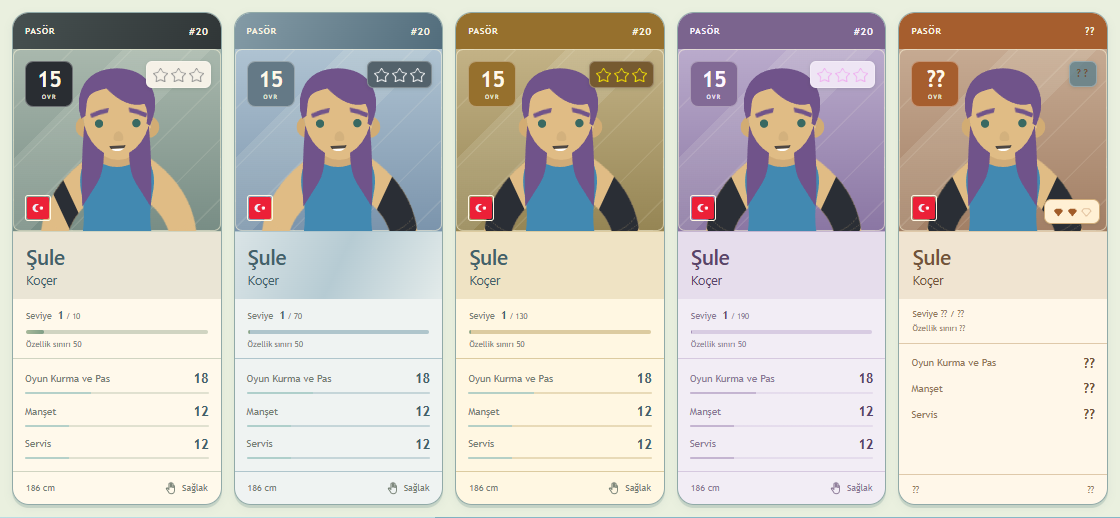
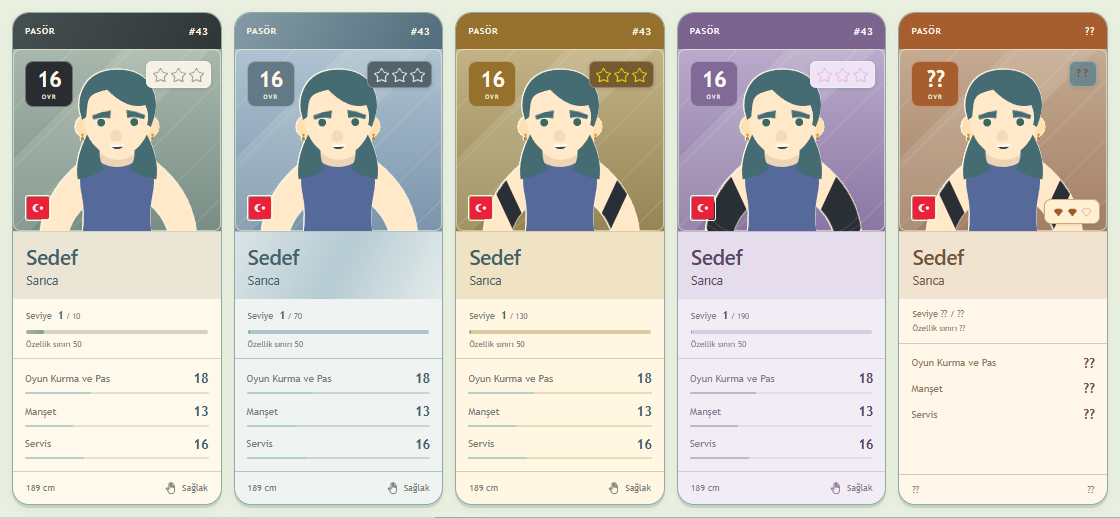
Add fine warm outline to card portrait silhouettes

diff --git a/index-beta.html b/index-beta.html
@@ -1,5 +1,5 @@
 <!doctype html>
-<html lang="tr" class="desktop-beta"><head><script src="desktop-beta-storage.js?v=df309e5c0cea"></script><script src="cheat-defaults.js?v=3f3b429b351f"></script><script src="flow-preview-environment.js?v=bd84173813bd"></script><meta charset="utf-8"><meta name="viewport" content="width=device-width,initial-scale=1,viewport-fit=cover"><meta name="theme-color" content="#72c8e5"><link rel="manifest" href="manifest.webmanifest"><link rel="apple-touch-icon" href="assets/app/apple-touch-icon.png"><meta name="apple-mobile-web-app-capable" content="yes"><meta name="apple-mobile-web-app-title" content="Idle Spiker"><meta name="apple-mobile-web-app-status-bar-style" content="default"><link rel="stylesheet" href="app-display.css?v=07395180a70d"><script src="app-display.js?v=6eab26d2992b" defer></script><title>Idle Spiker · Masaüstü Beta</title><link rel="stylesheet" href="menu.css?v=c016fb44e844"><link rel="stylesheet" href="menu-game.css?v=7f40c8954076"><link rel="stylesheet" href="team.css?v=bcffe6b92c1a"><link rel="stylesheet" href="league-season.css?v=c5e4b44d88a2"><style>#bootScreen{position:fixed;inset:0;max-width:480px;margin-inline:auto;z-index:10000;display:grid;place-content:center;justify-items:center;gap:8px;background:#fff3d7;color:#547c83;font-family:system-ui,sans-serif}#bootScreen strong{order:0;font-size:30px;letter-spacing:2px}#bootScreen strong span{color:#bb995b}#bootScreen p{order:1;font-size:12px;margin:0;color:#819383}#bootPepper{transform:translateZ(0);backface-visibility:hidden;contain:paint;object-fit:contain;order:2;margin-top:12px;visibility:visible;width:260px;height:212px;border:0;background:transparent;pointer-events:none}#bootScreen img{order:-1;margin-bottom:10px;width:48px;height:48px;animation:boot-bounce 1.2s ease-in-out infinite}@keyframes boot-bounce{50%{transform:translateY(-12px) rotate(18deg)}}@media(prefers-reduced-motion:reduce){#bootScreen img{animation:none}}</style><link rel="stylesheet" href="club-journey.css?v=a8162af5edc1"><link rel="stylesheet" href="bal-stage.css?v=03e79f9db703"><script src="season-clock.js?v=c90a74233800"></script><script src="bal-recovery.js?v=59d7a7b23c62"></script><script src="weekly-season-migration.js?v=c91052e58aec"></script><script src="number-ui.js?v=a24b5930e991"></script><link rel="stylesheet" href="theme.css?v=3c0c28bd21fb"><script src="theme.js?v=3046f3da7b5c"></script><link rel="stylesheet" href="achievements.css?v=2a8661c0d2be"><link rel="stylesheet" href="division-three.css?v=ef35af114b54"><link rel="stylesheet" href="social-screen.css?v=0bf69406736d"><link rel="stylesheet" href="league-players.css?v=86e88a43a3b5"><link rel="stylesheet" href="language.css?v=b027c2a552b8"><script src="language-data.js?v=3d3af7f60753"></script><script src="language.js?v=6352cc5dd035"></script><link rel="stylesheet" href="player-skills.css?v=da608137e96c"><link rel="stylesheet" href="styles/ui/player-club-card.css?v=a569e8104e01"><link rel="stylesheet" href="styles/ui/transfer-center.css?v=80c355595696"><script src="scripts/ui/dialog-navigation.js?v=0988251be4a1" defer></script><link rel="stylesheet" href="social-journey.css?v=381c58c2dc22"><link rel="stylesheet" href="next-match-card.css?v=d739901623ff"><link rel="stylesheet" href="social-follower-counter.css?v=038892551d63"><link rel="stylesheet" href="player-profile.css?v=89c574b694fe"><link rel="stylesheet" href="ui-icons.css?v=b5ce6adfd485"><link rel="stylesheet" href="flow-effects.css?v=f82bf838ab8c"><link rel="stylesheet" href="board-doodles.css?v=85c5f17bdbe1"><link rel="stylesheet" href="board-presentation.css?v=3ae360fc348f"><link rel="stylesheet" href="progression-visuals.css?v=abd1b1d35d38"><link rel="stylesheet" href="flow-lanes.css?v=d6d148cc7fd3"><link rel="stylesheet" href="flow-media-theme.css?v=a959430cbe25"><link rel="stylesheet" href="ui-components.css?v=7b2e2900e58c"><link rel="stylesheet" href="academy.css?v=1f7eb14eaf73"><link rel="stylesheet" href="academy-career.css?v=c24b7b8e9637"><link rel="stylesheet" href="legendary-unlock-preview.css?v=247b90f08604"><script src="point-music-rules.js?v=8ce930b25ffd"></script><link rel="stylesheet" href="desktop-beta.css?v=43345844dd65"></head>
+<html lang="tr" class="desktop-beta"><head><script src="desktop-beta-storage.js?v=df309e5c0cea"></script><script src="cheat-defaults.js?v=3f3b429b351f"></script><script src="flow-preview-environment.js?v=bd84173813bd"></script><meta charset="utf-8"><meta name="viewport" content="width=device-width,initial-scale=1,viewport-fit=cover"><meta name="theme-color" content="#72c8e5"><link rel="manifest" href="manifest.webmanifest"><link rel="apple-touch-icon" href="assets/app/apple-touch-icon.png"><meta name="apple-mobile-web-app-capable" content="yes"><meta name="apple-mobile-web-app-title" content="Idle Spiker"><meta name="apple-mobile-web-app-status-bar-style" content="default"><link rel="stylesheet" href="app-display.css?v=07395180a70d"><script src="app-display.js?v=6eab26d2992b" defer></script><title>Idle Spiker · Masaüstü Beta</title><link rel="stylesheet" href="menu.css?v=c016fb44e844"><link rel="stylesheet" href="menu-game.css?v=7f40c8954076"><link rel="stylesheet" href="team.css?v=bcffe6b92c1a"><link rel="stylesheet" href="league-season.css?v=c5e4b44d88a2"><style>#bootScreen{position:fixed;inset:0;max-width:480px;margin-inline:auto;z-index:10000;display:grid;place-content:center;justify-items:center;gap:8px;background:#fff3d7;color:#547c83;font-family:system-ui,sans-serif}#bootScreen strong{order:0;font-size:30px;letter-spacing:2px}#bootScreen strong span{color:#bb995b}#bootScreen p{order:1;font-size:12px;margin:0;color:#819383}#bootPepper{transform:translateZ(0);backface-visibility:hidden;contain:paint;object-fit:contain;order:2;margin-top:12px;visibility:visible;width:260px;height:212px;border:0;background:transparent;pointer-events:none}#bootScreen img{order:-1;margin-bottom:10px;width:48px;height:48px;animation:boot-bounce 1.2s ease-in-out infinite}@keyframes boot-bounce{50%{transform:translateY(-12px) rotate(18deg)}}@media(prefers-reduced-motion:reduce){#bootScreen img{animation:none}}</style><link rel="stylesheet" href="club-journey.css?v=a8162af5edc1"><link rel="stylesheet" href="bal-stage.css?v=03e79f9db703"><script src="season-clock.js?v=c90a74233800"></script><script src="bal-recovery.js?v=59d7a7b23c62"></script><script src="weekly-season-migration.js?v=c91052e58aec"></script><script src="number-ui.js?v=a24b5930e991"></script><link rel="stylesheet" href="theme.css?v=3c0c28bd21fb"><script src="theme.js?v=3046f3da7b5c"></script><link rel="stylesheet" href="achievements.css?v=2a8661c0d2be"><link rel="stylesheet" href="division-three.css?v=ef35af114b54"><link rel="stylesheet" href="social-screen.css?v=0bf69406736d"><link rel="stylesheet" href="league-players.css?v=86e88a43a3b5"><link rel="stylesheet" href="language.css?v=b027c2a552b8"><script src="language-data.js?v=3d3af7f60753"></script><script src="language.js?v=6352cc5dd035"></script><link rel="stylesheet" href="player-skills.css?v=da608137e96c"><link rel="stylesheet" href="styles/ui/player-club-card.css?v=3aabcbaa2215"><link rel="stylesheet" href="styles/ui/transfer-center.css?v=80c355595696"><script src="scripts/ui/dialog-navigation.js?v=0988251be4a1" defer></script><link rel="stylesheet" href="social-journey.css?v=381c58c2dc22"><link rel="stylesheet" href="next-match-card.css?v=d739901623ff"><link rel="stylesheet" href="social-follower-counter.css?v=038892551d63"><link rel="stylesheet" href="player-profile.css?v=89c574b694fe"><link rel="stylesheet" href="ui-icons.css?v=b5ce6adfd485"><link rel="stylesheet" href="flow-effects.css?v=f82bf838ab8c"><link rel="stylesheet" href="board-doodles.css?v=85c5f17bdbe1"><link rel="stylesheet" href="board-presentation.css?v=3ae360fc348f"><link rel="stylesheet" href="progression-visuals.css?v=abd1b1d35d38"><link rel="stylesheet" href="flow-lanes.css?v=d6d148cc7fd3"><link rel="stylesheet" href="flow-media-theme.css?v=a959430cbe25"><link rel="stylesheet" href="ui-components.css?v=7b2e2900e58c"><link rel="stylesheet" href="academy.css?v=1f7eb14eaf73"><link rel="stylesheet" href="academy-career.css?v=c24b7b8e9637"><link rel="stylesheet" href="legendary-unlock-preview.css?v=247b90f08604"><script src="point-music-rules.js?v=8ce930b25ffd"></script><link rel="stylesheet" href="desktop-beta.css?v=43345844dd65"></head>
 <body><div id="bootScreen" role="status" aria-live="polite"><img src="assets/balls/atlas-1.png" alt="" width="48" height="48"><strong>IDLE<span>SPIKER</span></strong><p>Kulüp hazırlanıyor…</p></div><script>window.bootStartedAt=performance.now();window.bootFallback=setTimeout(function(){document.getElementById("bootScreen")?.remove()},10000)</script><div class="shell"><aside class="rail"><a class="brand" href="index-beta.html" aria-label="Idle Spiker ana menü"><svg viewBox="0 0 40 40" aria-hidden="true"><circle cx="20" cy="20" r="15"/><path d="M7 13q15 0 18 22M19 5q-5 13-12 19M34 17q-12-3-19 13"/></svg></a><span class="rail-word">IDLE SPIKER</span><a class="rail-icon active" href="index-beta.html" aria-label="Kulüp merkezi" title="Kulüp merkezi">⌂</a><span class="rail-bottom">01 / CLUB</span></aside>
 <div class="content"><header class="topbar"><a href="index-beta.html" class="wordmark">IDLE<span>SPIKER</span><small>VOLEYBOL KULÜBÜ</small></a><nav aria-label="Ana gezinme"><span class="nav-current">Kulüp merkezi</span></nav><button id="settingsButton" class="settings-button" type="button" aria-label="Ayarları aç">⚙ Ayarlar</button></header>
 <main><div class="dashboard"><section id="clubPanel" class="club-panel" aria-label="Kulüp departmanları"><div class="section-top"><div><span class="eyebrow">BİZİM KULÜP · AŞAMA 1</span></div></div>

diff --git a/index.html b/index.html
@@ -1,5 +1,5 @@
 <!doctype html>
-<html lang="tr"><head><script src="cheat-defaults.js?v=3f3b429b351f"></script><script src="flow-preview-environment.js?v=bd84173813bd"></script><meta charset="utf-8"><meta name="viewport" content="width=device-width,initial-scale=1,viewport-fit=cover"><meta name="theme-color" content="#72c8e5"><link rel="manifest" href="manifest.webmanifest"><link rel="apple-touch-icon" href="assets/app/apple-touch-icon.png"><meta name="apple-mobile-web-app-capable" content="yes"><meta name="apple-mobile-web-app-title" content="Idle Spiker"><meta name="apple-mobile-web-app-status-bar-style" content="default"><link rel="stylesheet" href="app-display.css?v=07395180a70d"><script src="app-display.js?v=6eab26d2992b" defer></script><title>Idle Spiker · Kulüp Merkezi</title><link rel="stylesheet" href="menu.css?v=c016fb44e844"><link rel="stylesheet" href="menu-game.css?v=7f40c8954076"><link rel="stylesheet" href="team.css?v=bcffe6b92c1a"><link rel="stylesheet" href="league-season.css?v=c5e4b44d88a2"><style>#bootScreen{position:fixed;inset:0;max-width:480px;margin-inline:auto;z-index:10000;display:grid;place-content:center;justify-items:center;gap:8px;background:#fff3d7;color:#547c83;font-family:system-ui,sans-serif}#bootScreen strong{order:0;font-size:30px;letter-spacing:2px}#bootScreen strong span{color:#bb995b}#bootScreen p{order:1;font-size:12px;margin:0;color:#819383}#bootPepper{transform:translateZ(0);backface-visibility:hidden;contain:paint;object-fit:contain;order:2;margin-top:12px;visibility:visible;width:260px;height:212px;border:0;background:transparent;pointer-events:none}#bootScreen img{order:-1;margin-bottom:10px;width:48px;height:48px;animation:boot-bounce 1.2s ease-in-out infinite}@keyframes boot-bounce{50%{transform:translateY(-12px) rotate(18deg)}}@media(prefers-reduced-motion:reduce){#bootScreen img{animation:none}}</style><link rel="stylesheet" href="club-journey.css?v=a8162af5edc1"><link rel="stylesheet" href="bal-stage.css?v=03e79f9db703"><script src="season-clock.js?v=c90a74233800"></script><script src="bal-recovery.js?v=59d7a7b23c62"></script><script src="weekly-season-migration.js?v=c91052e58aec"></script><script src="number-ui.js?v=a24b5930e991"></script><link rel="stylesheet" href="theme.css?v=3c0c28bd21fb"><script src="theme.js?v=3046f3da7b5c"></script><link rel="stylesheet" href="achievements.css?v=2a8661c0d2be"><link rel="stylesheet" href="division-three.css?v=ef35af114b54"><link rel="stylesheet" href="social-screen.css?v=0bf69406736d"><link rel="stylesheet" href="league-players.css?v=86e88a43a3b5"><link rel="stylesheet" href="language.css?v=b027c2a552b8"><script src="language-data.js?v=3d3af7f60753"></script><script src="language.js?v=6352cc5dd035"></script><link rel="stylesheet" href="player-skills.css?v=da608137e96c"><link rel="stylesheet" href="styles/ui/player-club-card.css?v=a569e8104e01"><link rel="stylesheet" href="styles/ui/transfer-center.css?v=80c355595696"><script src="scripts/ui/dialog-navigation.js?v=0988251be4a1" defer></script><link rel="stylesheet" href="social-journey.css?v=381c58c2dc22"><link rel="stylesheet" href="next-match-card.css?v=d739901623ff"><link rel="stylesheet" href="social-follower-counter.css?v=038892551d63"><link rel="stylesheet" href="player-profile.css?v=89c574b694fe"><link rel="stylesheet" href="ui-icons.css?v=b5ce6adfd485"><link rel="stylesheet" href="flow-effects.css?v=f82bf838ab8c"><link rel="stylesheet" href="board-doodles.css?v=85c5f17bdbe1"><link rel="stylesheet" href="board-presentation.css?v=3ae360fc348f"><link rel="stylesheet" href="progression-visuals.css?v=abd1b1d35d38"><link rel="stylesheet" href="flow-lanes.css?v=d6d148cc7fd3"><link rel="stylesheet" href="flow-media-theme.css?v=a959430cbe25"><link rel="stylesheet" href="ui-components.css?v=7b2e2900e58c"><link rel="stylesheet" href="academy.css?v=1f7eb14eaf73"><link rel="stylesheet" href="academy-career.css?v=c24b7b8e9637"><link rel="stylesheet" href="legendary-unlock-preview.css?v=247b90f08604"><script src="point-music-rules.js?v=8ce930b25ffd"></script><link rel="stylesheet" href="playtest-recorder.css?v=6bbab40bb134"></head>
+<html lang="tr"><head><script src="cheat-defaults.js?v=3f3b429b351f"></script><script src="flow-preview-environment.js?v=bd84173813bd"></script><meta charset="utf-8"><meta name="viewport" content="width=device-width,initial-scale=1,viewport-fit=cover"><meta name="theme-color" content="#72c8e5"><link rel="manifest" href="manifest.webmanifest"><link rel="apple-touch-icon" href="assets/app/apple-touch-icon.png"><meta name="apple-mobile-web-app-capable" content="yes"><meta name="apple-mobile-web-app-title" content="Idle Spiker"><meta name="apple-mobile-web-app-status-bar-style" content="default"><link rel="stylesheet" href="app-display.css?v=07395180a70d"><script src="app-display.js?v=6eab26d2992b" defer></script><title>Idle Spiker · Kulüp Merkezi</title><link rel="stylesheet" href="menu.css?v=c016fb44e844"><link rel="stylesheet" href="menu-game.css?v=7f40c8954076"><link rel="stylesheet" href="team.css?v=bcffe6b92c1a"><link rel="stylesheet" href="league-season.css?v=c5e4b44d88a2"><style>#bootScreen{position:fixed;inset:0;max-width:480px;margin-inline:auto;z-index:10000;display:grid;place-content:center;justify-items:center;gap:8px;background:#fff3d7;color:#547c83;font-family:system-ui,sans-serif}#bootScreen strong{order:0;font-size:30px;letter-spacing:2px}#bootScreen strong span{color:#bb995b}#bootScreen p{order:1;font-size:12px;margin:0;color:#819383}#bootPepper{transform:translateZ(0);backface-visibility:hidden;contain:paint;object-fit:contain;order:2;margin-top:12px;visibility:visible;width:260px;height:212px;border:0;background:transparent;pointer-events:none}#bootScreen img{order:-1;margin-bottom:10px;width:48px;height:48px;animation:boot-bounce 1.2s ease-in-out infinite}@keyframes boot-bounce{50%{transform:translateY(-12px) rotate(18deg)}}@media(prefers-reduced-motion:reduce){#bootScreen img{animation:none}}</style><link rel="stylesheet" href="club-journey.css?v=a8162af5edc1"><link rel="stylesheet" href="bal-stage.css?v=03e79f9db703"><script src="season-clock.js?v=c90a74233800"></script><script src="bal-recovery.js?v=59d7a7b23c62"></script><script src="weekly-season-migration.js?v=c91052e58aec"></script><script src="number-ui.js?v=a24b5930e991"></script><link rel="stylesheet" href="theme.css?v=3c0c28bd21fb"><script src="theme.js?v=3046f3da7b5c"></script><link rel="stylesheet" href="achievements.css?v=2a8661c0d2be"><link rel="stylesheet" href="division-three.css?v=ef35af114b54"><link rel="stylesheet" href="social-screen.css?v=0bf69406736d"><link rel="stylesheet" href="league-players.css?v=86e88a43a3b5"><link rel="stylesheet" href="language.css?v=b027c2a552b8"><script src="language-data.js?v=3d3af7f60753"></script><script src="language.js?v=6352cc5dd035"></script><link rel="stylesheet" href="player-skills.css?v=da608137e96c"><link rel="stylesheet" href="styles/ui/player-club-card.css?v=3aabcbaa2215"><link rel="stylesheet" href="styles/ui/transfer-center.css?v=80c355595696"><script src="scripts/ui/dialog-navigation.js?v=0988251be4a1" defer></script><link rel="stylesheet" href="social-journey.css?v=381c58c2dc22"><link rel="stylesheet" href="next-match-card.css?v=d739901623ff"><link rel="stylesheet" href="social-follower-counter.css?v=038892551d63"><link rel="stylesheet" href="player-profile.css?v=89c574b694fe"><link rel="stylesheet" href="ui-icons.css?v=b5ce6adfd485"><link rel="stylesheet" href="flow-effects.css?v=f82bf838ab8c"><link rel="stylesheet" href="board-doodles.css?v=85c5f17bdbe1"><link rel="stylesheet" href="board-presentation.css?v=3ae360fc348f"><link rel="stylesheet" href="progression-visuals.css?v=abd1b1d35d38"><link rel="stylesheet" href="flow-lanes.css?v=d6d148cc7fd3"><link rel="stylesheet" href="flow-media-theme.css?v=a959430cbe25"><link rel="stylesheet" href="ui-components.css?v=7b2e2900e58c"><link rel="stylesheet" href="academy.css?v=1f7eb14eaf73"><link rel="stylesheet" href="academy-career.css?v=c24b7b8e9637"><link rel="stylesheet" href="legendary-unlock-preview.css?v=247b90f08604"><script src="point-music-rules.js?v=8ce930b25ffd"></script><link rel="stylesheet" href="playtest-recorder.css?v=6bbab40bb134"></head>
 <body><div id="bootScreen" role="status" aria-live="polite"><img src="assets/balls/atlas-1.png" alt="" width="48" height="48"><strong>IDLE<span>SPIKER</span></strong><p>Kulüp hazırlanıyor…</p></div><script>window.bootStartedAt=performance.now();window.bootFallback=setTimeout(function(){document.getElementById("bootScreen")?.remove()},10000)</script><div class="shell"><aside class="rail"><a class="brand" href="index.html" aria-label="Idle Spiker ana menü"><svg viewBox="0 0 40 40" aria-hidden="true"><circle cx="20" cy="20" r="15"/><path d="M7 13q15 0 18 22M19 5q-5 13-12 19M34 17q-12-3-19 13"/></svg></a><span class="rail-word">IDLE SPIKER</span><a class="rail-icon active" href="index.html" aria-label="Kulüp merkezi" title="Kulüp merkezi">⌂</a><span class="rail-bottom">01 / CLUB</span></aside>
 <div class="content"><header class="topbar"><a href="index.html" class="wordmark">IDLE<span>SPIKER</span><small>VOLEYBOL KULÜBÜ</small></a><nav aria-label="Ana gezinme"><span class="nav-current">Kulüp merkezi</span></nav><button id="settingsButton" class="settings-button" type="button" aria-label="Ayarları aç">⚙ Ayarlar</button></header>
 <main><div class="dashboard"><section id="clubPanel" class="club-panel" aria-label="Kulüp departmanları"><div class="section-top"><div><span class="eyebrow">BİZİM KULÜP · AŞAMA 1</span></div></div>

diff --git a/card-design-preview.html b/card-design-preview.html
@@ -1,1 +1,1 @@
-<!doctype html><html lang="tr" class="elite-preview-page"><head><meta charset="utf-8"><meta name="viewport" content="width=device-width,initial-scale=1"><title>Oyuncu kartı tasarımları</title><link rel="stylesheet" href="team.css?v=bcffe6b92c1a"><link rel="stylesheet" href="styles/ui/player-club-card.css?v=a569e8104e01"><link rel="stylesheet" href="styles/ui/transfer-center.css?v=80c355595696"><link rel="stylesheet" href="ui-components.css?v=7b2e2900e58c"><link rel="stylesheet" href="elite-design-preview.css?v=8690d2b240a5"></head><body><main id="scoutDialog"><section aria-labelledby="cardSeriesTitle"><header class="card-lab-heading"><small>KARTIN GÖRSEL GELİŞİMİ</small><h2 id="cardSeriesTitle">Siyah · Gümüş · Altın · Mor</h2><p>Aynı oyuncu ve aynı OVR. Aşamalar, kartın görünüşünü karşılaştırmak içindir.</p></header><div id="cardProgression" class="card-lab-grid"></div></section><section aria-labelledby="potentialTitle"><header class="card-lab-heading"><small>AKADEMİ · POTANSİYELLİ GENÇLER</small><h2 id="potentialTitle">Geleceği henüz belli değil.</h2><p>Şimdiki OVR görünür. Mezuniyet gücü: ???</p></header><div id="eliteOptions" class="card-lab-grid"></div></section></main><script src="ui-icons-data.js?v=6804bbcfcd59"></script><script src="prospect-potential-rules.js?v=d08455300ece"></script><script src="player-card-presentation.js?v=ab24a8ee8f09"></script><script src="card-lab-template.js?v=f9ce24745e08"></script><script src="elite-design-preview.js?v=c67fcf020e1e"></script></body></html>
+<!doctype html><html lang="tr" class="elite-preview-page"><head><meta charset="utf-8"><meta name="viewport" content="width=device-width,initial-scale=1"><title>Oyuncu kartı tasarımları</title><link rel="stylesheet" href="team.css?v=bcffe6b92c1a"><link rel="stylesheet" href="styles/ui/player-club-card.css?v=3aabcbaa2215"><link rel="stylesheet" href="styles/ui/transfer-center.css?v=80c355595696"><link rel="stylesheet" href="ui-components.css?v=7b2e2900e58c"><link rel="stylesheet" href="elite-design-preview.css?v=8690d2b240a5"></head><body><main id="scoutDialog"><section aria-labelledby="cardSeriesTitle"><header class="card-lab-heading"><small>KARTIN GÖRSEL GELİŞİMİ</small><h2 id="cardSeriesTitle">Siyah · Gümüş · Altın · Mor</h2><p>Aynı oyuncu ve aynı OVR. Aşamalar, kartın görünüşünü karşılaştırmak içindir.</p></header><div id="cardProgression" class="card-lab-grid"></div></section><section aria-labelledby="potentialTitle"><header class="card-lab-heading"><small>AKADEMİ · POTANSİYELLİ GENÇLER</small><h2 id="potentialTitle">Geleceği henüz belli değil.</h2><p>Şimdiki OVR görünür. Mezuniyet gücü: ???</p></header><div id="eliteOptions" class="card-lab-grid"></div></section></main><script src="ui-icons-data.js?v=6804bbcfcd59"></script><script src="prospect-potential-rules.js?v=d08455300ece"></script><script src="player-card-presentation.js?v=ab24a8ee8f09"></script><script src="card-lab-template.js?v=f9ce24745e08"></script><script src="elite-design-preview.js?v=c67fcf020e1e"></script></body></html>

diff --git a/styles/ui/player-club-card.css b/styles/ui/player-club-card.css
@@ -207,3 +207,6 @@ html:not(.elite-preview-page) .player-card.player-card .card-halo,html:not(.elit
 html[data-theme=dark]:not(.elite-preview-page) .player-card.potential-player[data-prospect="unknown"]{--club-paper:#39352f;--club-soft:#484038;--club-name:#493b31;--club-ink:#f2dfc9;--club-muted:#d3bea5;--club-line:#74604b;--club-action:#554638;--potential-name-ink:#f2dfc9;--potential-accent:#e3b47f}
 html[data-theme=dark] .player-card[data-prospect="unknown"] :is(.card-name,.card-name *,.card-cap,.card-cap small,.card-physical){color:var(--club-ink)!important}
 html[data-theme=dark] .player-card[data-prospect="unknown"] .player-skill-strip{background:var(--club-paper)!important;color:var(--club-muted)!important}
+
+/* Fine silhouette edge for portrait artwork only, never the flag or match sprites. */
+.player-card .card-art>img{filter:drop-shadow(.65px 0 0 #fff8e5c9) drop-shadow(-.65px 0 0 #fff8e5c9) drop-shadow(0 .65px 0 #fff8e5c9) drop-shadow(0 -.65px 0 #fff8e5c9)}

diff --git a/DESIGN-SYSTEM.md b/DESIGN-SYSTEM.md
@@ -1011,3 +1011,5 @@ Ek doğrulama: test-request-followups.cjs gerçek sosyal medya işiyle geçişte
 Üretim doğrulaması: test-production-card-backdrops.cjs gerçek TeamView.transferCard ile beş farklı zemin, her kartta diyagonal/noninteractive katman, açık/koyu tema ve 320/390px içerik taşması kontrolünü geçti. test-card-tiers-and-prospects.cjs kademe/yıldız ve transfer karşılaştırmasında gizli bilgiyi; test-player-jersey-front.cjs gerçek BAL kadrosunu geçti. card-backdrops-production-light/dark.png ve jersey-roster-mobile.png incelendi.
 
 Koyu tema ek uyumluluk: Potansiyel kartların bakır isim/ikincil yazıları koyu gövde üzerinde açık krem tonlarına çevrilir; maskeli yetenek alanı aynı koyu kâğıdı kullanır. Ten/portre paleti değişmez.
+
+29 Ekim portre konturu denemesi: Yalnız player-card .card-art > img üzerinde dört yönde .65px sıcak kırık beyaz alfa konturu uygulanır. Bayrak/OVR/yıldızlar ve canlı maç karakterleri etkilenmez. Yeni animasyon, canvas döngüsü veya kart ölçüsü değişikliği yoktur.
